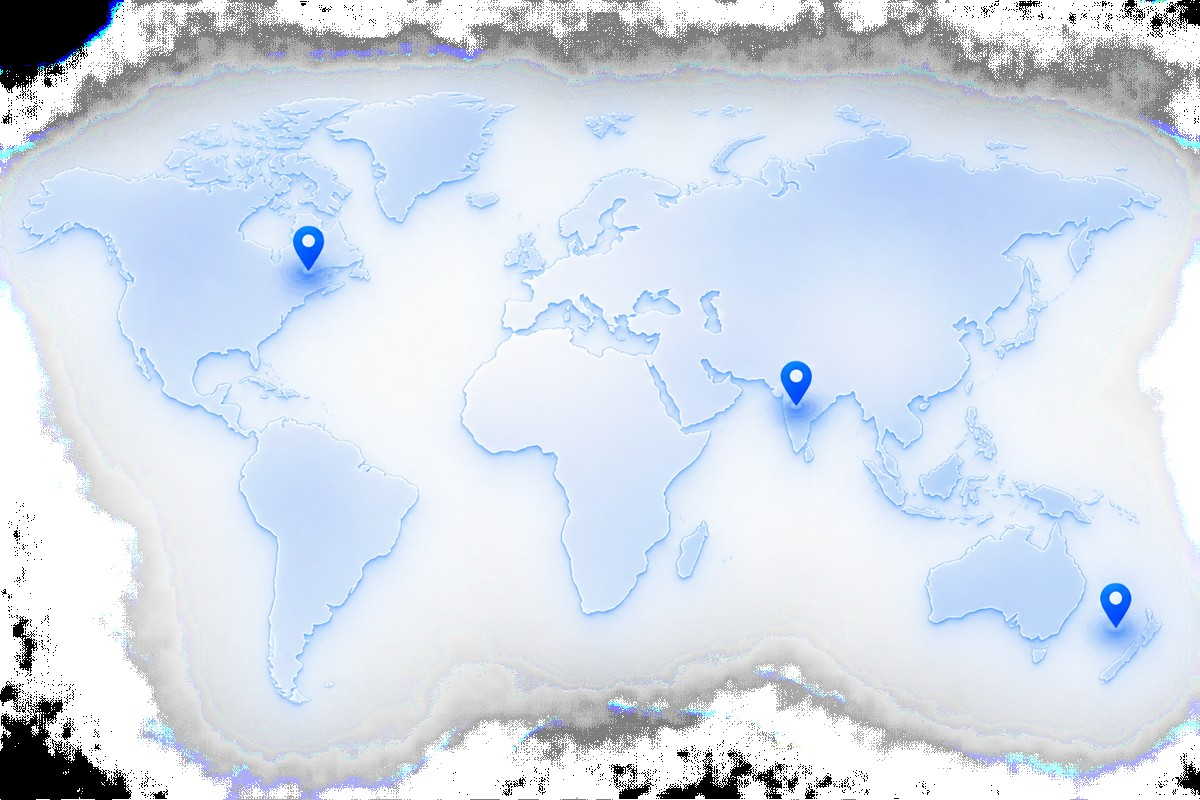
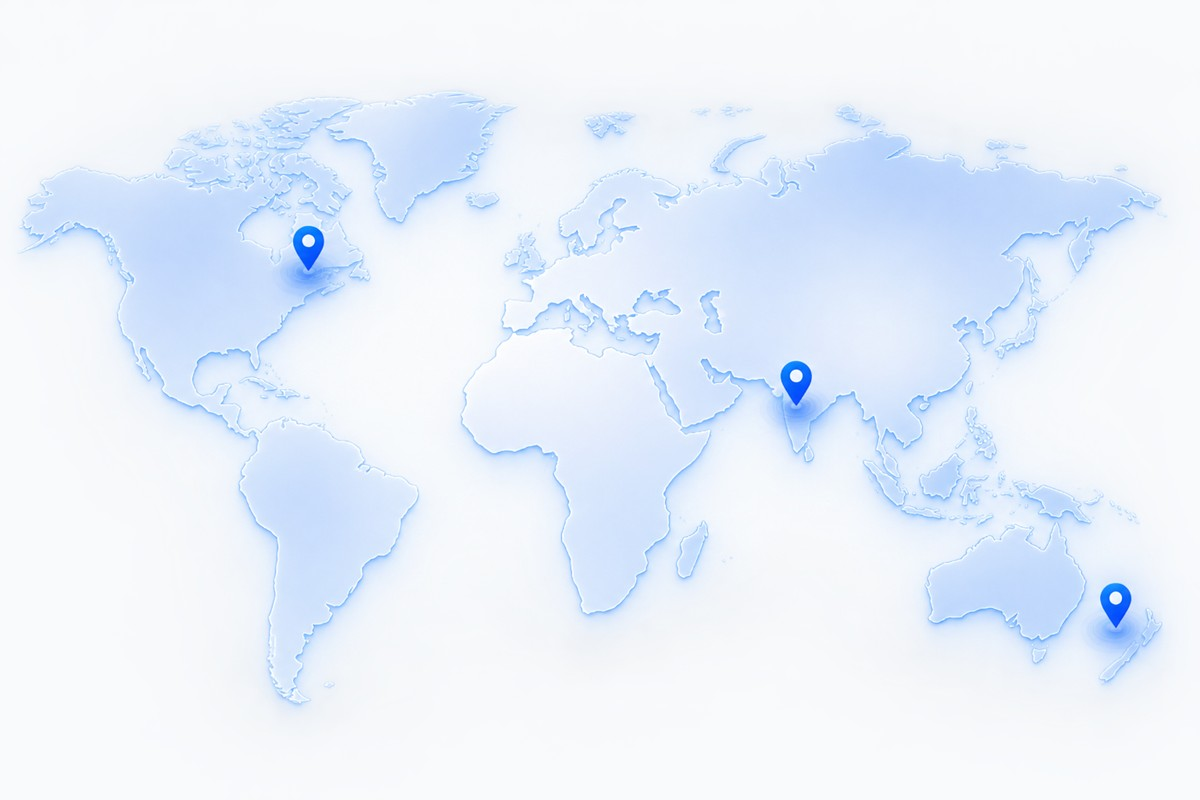
fix: Resolve map background transparency rendering issue and decrease preloader duration to 300ms

diff --git a/src/components/common/Preloader.tsx b/src/components/common/Preloader.tsx
@@ -21,9 +21,9 @@ export const Preloader: React.FC<PreloaderProps> = ({ onComplete }) => {
       return;
     }
 
-    // Snappy 0.5s loading screen
-    const totalTime = 500;
-    const intervalTime = 20;
+    // Snappy 0.3s loading screen
+    const totalTime = 300;
+    const intervalTime = 15;
     const totalSteps = totalTime / intervalTime;
     const stepIncrement = 100 / totalSteps;
 
@@ -38,7 +38,7 @@ export const Preloader: React.FC<PreloaderProps> = ({ onComplete }) => {
               sessionStorage.setItem('ag_preloaded', 'true');
             } catch (e) {}
             if (onComplete) onComplete();
-          }, 100);
+          }, 80);
           return 100;
         }
 
@@ -61,7 +61,7 @@ export const Preloader: React.FC<PreloaderProps> = ({ onComplete }) => {
         sessionStorage.setItem('ag_preloaded', 'true');
       } catch (e) {}
       if (onComplete) onComplete();
-    }, 700);
+    }, 450);
 
     return () => {
       clearInterval(interval);
